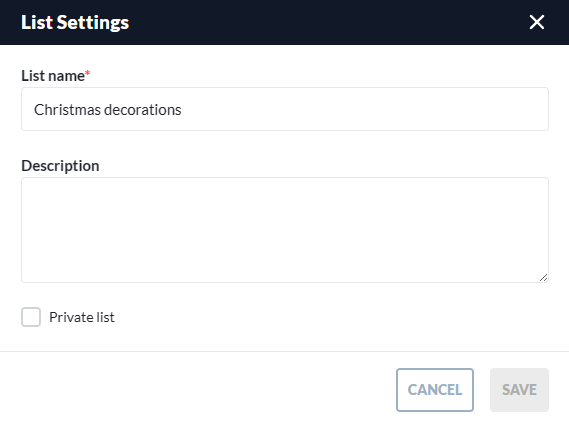
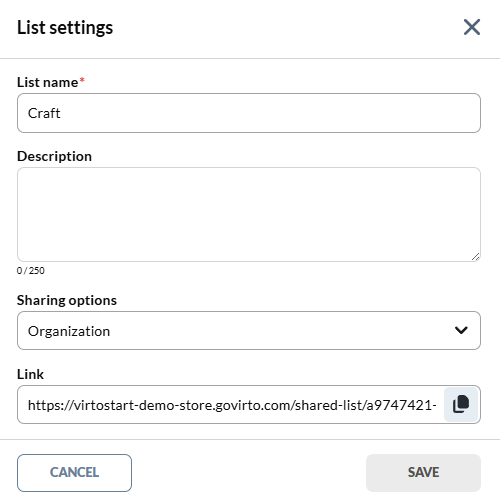
Minor corrections

diff --git a/storefront/user-guide/docs/account/lists.md b/storefront/user-guide/docs/account/lists.md
@@ -40,13 +40,13 @@ To edit a list:
 
 1. Click ![wheel](../media/wheel.png){: width="20"} to the right of the list name.
 1. In the popup menu, click **Edit** to open the list settings.
-1. Update the list name, its description, or check the **Private list** setting to make the list invisible for other company members.
+1. Update the list name, its description, or configure privacy settings:
 
     ![List settings](../media/list-settings.png){: style="display: block; margin: 0 auto;" width="500"}
 
 1. Click **Save** to save the changes.
 
-You modifications have been saved.
+You modifications have been applied.
 
 
 <br>
